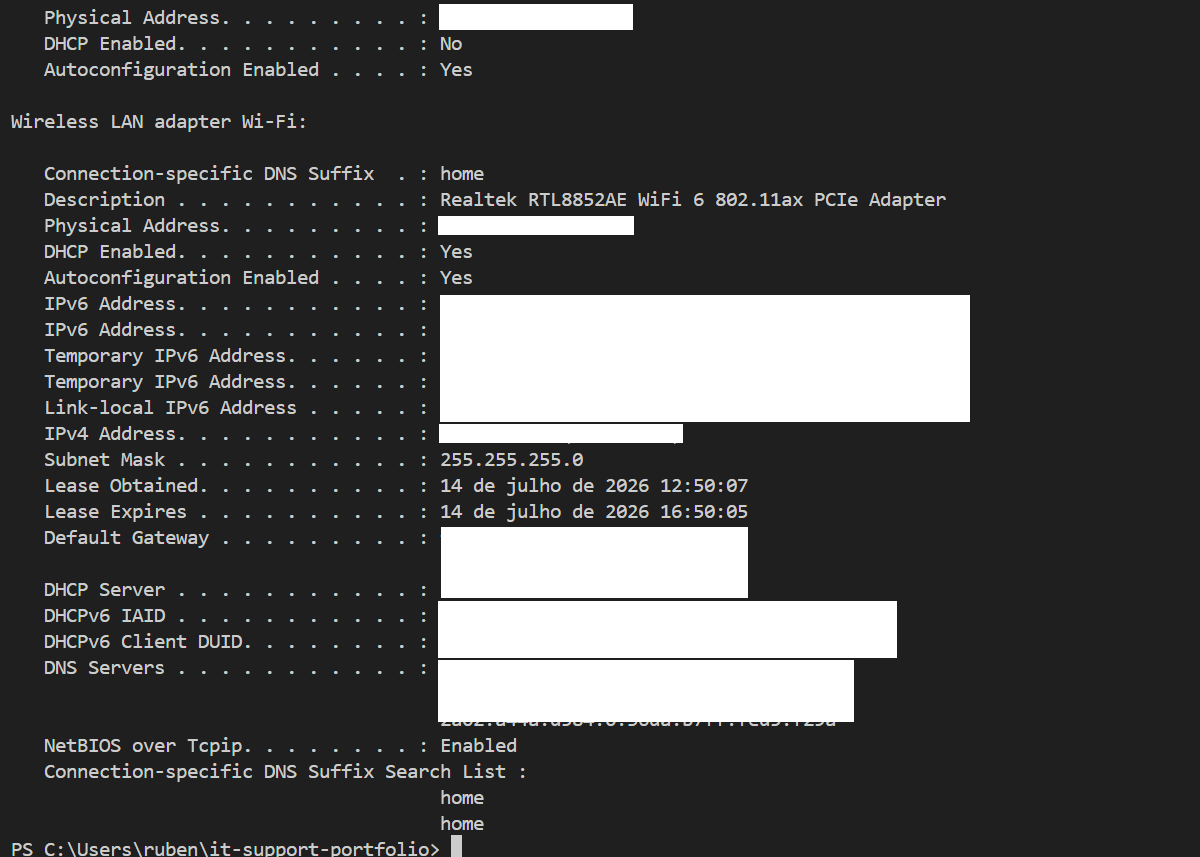
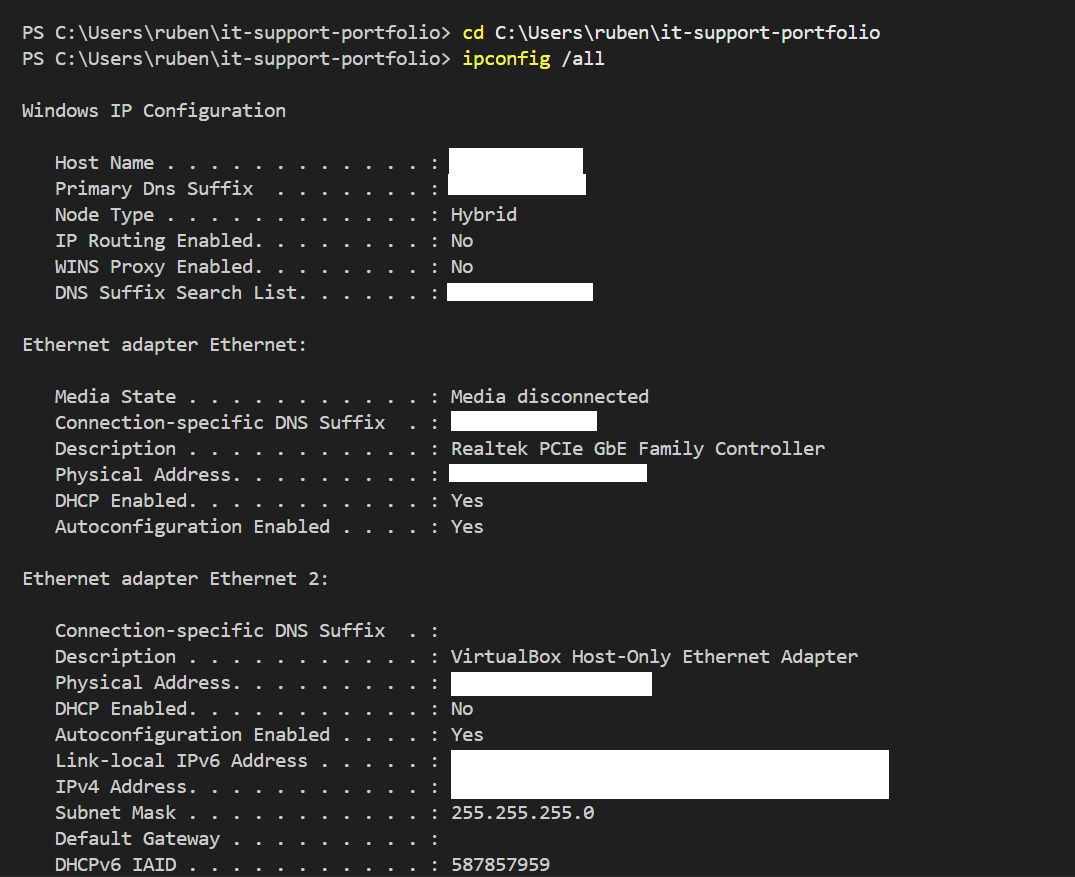
Command breakdown update

Changed region(s): [[0.0, 0.1517, 0.8288, 1.0], [0.0, 0.0, 0.8288, 0.091], [0.0, 0.1214, 0.2763, 0.1517]]

diff --git a/cases/001-reset-network-settings.md b/cases/001-reset-network-settings.md
@@ -1,7 +1,9 @@
 # Case #001 — Troubleshooting Connectivity Issues by Resetting Network Settings (Windows 10/11)
 
+**Note:** This scenario was reproduced in a controlled VirtualBox VM environment for demonstration and practice purposes.
+
 ## 📌 Context
-A user reports that the computer shows the Wi-Fi connection as active, but they cannot access websites or the local network. The issue started after a Windows update.
+A user reports that the computer shows an active network connection, but cannot access websites or the local network. Investigation revealed an incorrect manual IP configuration (wrong default gateway), which was preventing outbound traffic.
 
 ## 🔍 Observed Symptoms
 - Wi-Fi icon shows "connected", but there is no internet access
@@ -27,6 +29,14 @@ ipconfig /renew
 
 Restart the computer after running the commands.
 
+### 🔍 Command Breakdown
+
+* **`ipconfig /release`**: Releases the current IP address from the network adapter, temporarily dropping the local IP assignment.
+* **`ipconfig /flushdns`**: Clears the local DNS resolver cache, forcing Windows to request fresh, up-to-date IP addresses for websites.
+* **`netsh winsock reset`**: Resets the Winsock catalog (the API handling network program requests), repairing connection bugs caused by third-party software or VPNs.
+* **`netsh int ip reset`**: Reinstalls/resets the TCP/IP protocol stack within the Windows Registry to clear corrupted configurations.
+* **`ipconfig /renew`**: Requests a brand-new IP address from the DHCP server (router), restoring internet access.
+
 ## ✅ Verification
 - `ping 8.8.8.8` — successful
 - `ping google.com` — successful
@@ -45,10 +55,15 @@ completed successfully and did not prevent the resolution of the connectivity is
 - It should be one of the final troubleshooting steps, after confirming cables, hardware, and drivers are working correctly
 
 ## 🖼 Evidence
-![ipconfig before reset](../screenshots/001-reset-network-settings/01-ipconfig-before.png) | (../screenshots/001-reset-network-settings/02-ipconfig-before.png)
-![ping success](../screenshots/001-reset-network-settings/03-ping_success.png)
+**Normal situation; ping successfull:**
+![ping success](../screenshots/001-reset-network-settings/01-ping-success.png)
+**Ipconfig showing correct configuration:**
+![ipconfig before reset](../screenshots/001-reset-network-settings/02-ipconfig-before.png) | ![ipconfig before reset 2](../screenshots/001-reset-network-settings/03-ipconfig-before.png)
+**Before - Misconfigured gateway; ping fails:**
 ![ping failure to gateway]()
+**Applying the reset commands:**
 ![reset commands executed](../screenshots/001-reset-network-settings/04-netsh-reset.png)
+**After - Successfull ping, issue resolved:**
 ![successful ping after reset]()
 
 ---
